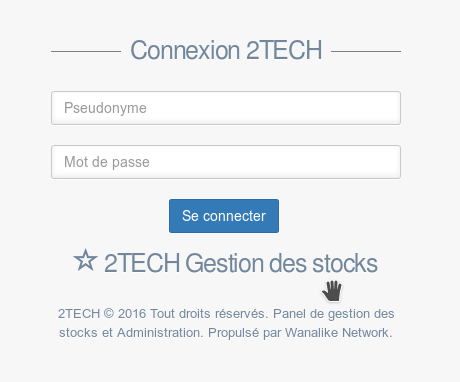
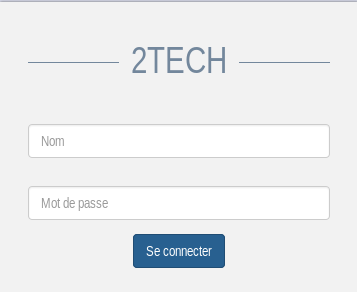
add img files for techologie section

diff --git a/index.html b/index.html
@@ -62,7 +62,7 @@
 <!--slide 1-->
 	<div class="section" id="section2">
 		<div class="slide" id="slide1">
-	 	 	<h2 class="border">le préstataires initiale</h2>
+	 	 	<h2 class="border">le préstataire initiale</h2>
 	 	 	<h3 class="border">Wanalike Network </h3>
 			 	<div class="content">
 	 				<img src="img/wanalike.png"  class="add"/>
@@ -73,7 +73,7 @@
 <!--slide 2-->		
 		<div class="slide" id="slide2">
 			<div class="content">
-			<h2 class="border">le préstataires actuel</h2>
+			<h2 class="border">le préstataire actuel</h2>
 				 <h3 class="border">La Code Academie</h3>
 				 		<div class="content">
 						 	  	 	<img src="img/codeac.jpg" class="add"/>
@@ -93,7 +93,8 @@
 			<div class="content">
 				 <h3 class="border">Un nouveau design</h3>
 		 	 		<h4 class="border modif">avant / aprés</h4>	
-	 			 		<img src="img/oldnew.png" class="center modifs"/>
+		 	 			<a href="img/oldnew.png" class="voir">Plein écran</a>
+	 			 		<img src="img/oldnew.png" class="content-z modifs" />
 						 	 
 			</div>
 		</div>
@@ -110,80 +111,91 @@
 		<div class="slide" id="slide6">
 			<div class="content">
 				 <h2 class="border">Les accés</h2>
-				 <h4 class="border modif">l'utilisateur/administrateur</h4>	
-						<div class="place">
-							<img src="" class="center"/>
+				 <h4 class="border modif">Utilisateur/Administrateur</h4>	
+						
+							<img src="img/login.png" class="center place"/>
 
-						</div>
+						
 			</div>
 		</div>
 	</div>
-	<!--section 3-->
+
+
+<!--section 3-->
 	<div class="section" id="section3">
 			<div class="content">
-				 <h2 class="border">Deux autres pages annexes accessibles via la barre de navigation </h2>
-						<div class="nav">
-							<div class="navbar"></div>
+				 <h2 class="border">l'equipe </h2>
+				 <h4 class="border ">développeur front-end / back-end </h4>	
+						<div class="equipe">
+							<img src="img/tyjow.JPG" class="jo"/>
+							<img src="img/ju.JPG" class=" ju"/>
 
 						</div>
 			</div>
 	</div>
-	<!--section 4-->		
-	<div class="section" id="section4">
-		<div class="content">
-			
-		<h2 class="border">Deux pages conçue pour afficher une vue d'ensemble avec des statistiques</h3> 	 
-
-				<div class="stat">
-						<div class="stats"></div>		
-				</div>
-		</div>
-	</div>
-	<!--section 5-->
-	<div class="section" id="section5">
+	
+<!--section 4-->
+<!--debut du derniers slide-->
+<div class="section" id="section4">
 			<div class="slide" id="slide1">
-			 <div class="content">
-				 	 
-				<h3 class="border">La modal d'ajout d'utilisateurs/fournisseurs</h3> 	 
+			 	<div class="content">
+					<h3 class="border">l'aspect téchnique</h3> 	 
+					<h4 class="border ">les téchnologies </h4>	
+						<img src="img/techno.jpg" >
+				</div>
+			</div><!--end slide 1-->
 
-				<div class="modal">
-						<div class="modals"></div>		
-				</div>
-				 	 
-				 	
-				</div>
-		</div>
 <!--slide 2-->		
 	<div class="slide" id="slide2">
 			<div class="content">
-				 	<h3 class="border">fulltabs</h3> 	 
-
-				<div class="fulltab">
-						<div class="fulltabs"></div>		
+			 	<h3 class="border">Angular Js</h3> 	 
+					<img src="img/Angular.png" />
+					
 			</div>
-		</div>
 
-	</div>
-
-	<!--slide 3-->		
+	</div><!--end slide 2-->
+<!--slide 3-->		
 	<div class="slide" id="slide3">
 			<div class="content">
-				 	<h3>planning</h3> 	 
+			 	<h3 class="border">Bootstrap v3.3.6</h3> 	 
+					<img src="img/bootstrap.jpg"/>
+			</div>
+	</div><!--end slide 3-->
 
-				<div class="plannings">
-						<!--<a href="../planning.html"><div class="planning" ></div></a>-->
-						<img src="img/Planning.png" width="900" height="400"></iframe>
-				</div>
-		</div>
+<!--slide 4-->
+	<div class="slide" id="slide4">
+						<div class="content">
+			 	<h3 class="border">Apache / Mysql</h3> 	 
+					<div class="equipe">
+						<img src="img/apache.png"/>
+						<img src="img/sql.png" class="sql" />
 
-	</div>
+						</div>
+			</div>
+	</div><!--end slide 4-->
+
+	<!--slide 5-->
+	<div class="slide" id="slide5">
+			<div class="content">
+			 	<h3 class="border">Php 7</h3> 	 
+				<img src="img/php.png" class="php">
+			</div>
+	</div><!--end slide 5-->
+
+<!--slide 6-->
+	<div class="slide" id="slide5">
+			<div class="content">
+			 	<h3 class="border">Planning</h3> 	 
+					<a href="img/Planning.png" class="voir">Plein écran</a>
+					<img src="img/Planning.png" class="content-z plannings"/>
+			</div>
+	</div><!--end slide 5-->
 
 
-
-
-	</div>
+</div><!--end section 4-->
+</div><!--end fullpage div -->
 	
-</div>
+
 
 
 

diff --git a/css/prez.css b/css/prez.css
@@ -2,11 +2,19 @@
 		 * --------------------------------------- */
 		body,div,dl,dt,dd,ul,ol,li,h1,h2,h3,h4,h5,h6,pre,
 		form,fieldset,input,textarea,p,blockquote,th,td {
-		    padding: 0 auto;
-		    margin: 0 auto;
+		    padding: 0 ;
+		    margin: 0 ;
 		}
 		a{
 			text-decoration:none;
+		}
+
+		a:hover{
+			background-color:whitesmoke;
+			color:red;
+
+
+
 		}
 		table {
 		    border-spacing: 0;
@@ -94,6 +102,15 @@
 			text-align: center;
 		}
 
+		.content-z{
+			margin-top: 2%;
+			margin-bottom: 0;
+			position: relative;
+			transform: translate(25%, -35%)!important;
+			text-align: center;
+			z-index: -1;
+		}
+
 		/* Section 1
 		 * --------------------------------------- */
 		#section0{
@@ -176,7 +193,7 @@ div.p{
 	border :2px solid red;
 	color: red;
 	background-color: whitesmoke;
-	/*margin-bottom: 5%;*/
+	margin-top: 5%;
 	width: 30%;
 
 }
@@ -199,6 +216,7 @@ div.p{
 h1.titre{
 	display:flex;
 	justify-content: center;
+	transform: translateX(10%)!important;
 	background-color: whitesmoke;
 
 
@@ -243,10 +261,10 @@ h2{
 	justify-content: center;
 	background-color: rgba(255,255,255, 0.7)!important;
 	background-repeat: no-repeat;
-	margin-left: 40%;
-	margin-top: 5%;
-	height:	px!important;
-	width: 300px!important;
+	margin-left: 41%;
+	
+	height:	250px!important;
+	width: 250px!important;
 	
 }
 
@@ -254,30 +272,33 @@ h2{
 
 
 
-.nav{
-
+.equipe{
+	float:left;
 	display: flex!important;
 	justify-content: center!important;
+	height:250px;
+	width: 50%;
+	margin-left: 25%;
+	background-color: white;
+}
+
+.ju{
+	float:left;
+}
+
+.sql{
+	background-color:white!important;
+
 
 }
 
-.navbar{
-	
-	background:url('../img/navbar.png');
-	background-repeat: no-repeat;
-	margin-top: 5%;
-	margin-bottom: 5%;
-	margin-left: 10%;
-	height: 50px;
-	width: 750px;
 
-}
 
 .modif{
 	display: block;
 	justify-content: center!important;
 	width: 25%;
-	margin-left: 20%;
+	/*margin-left: 20%;*/
 	
 	font-size: 50px;
 	
@@ -293,10 +314,10 @@ h2{
 	/*background:url('../img/oldnew.png');*/	
 	background-repeat: no-repeat;
 	background-size: cover;
-	transform: translate(-12%, -25%);
+	transform: translate(15%, -50%)!important;
 	padding: 0 ;
 	
-	height: 800px;
+	height: 650px;
 	width: 1024px;
 
 }
@@ -431,32 +452,42 @@ h2{
 
 }
 
+
+
 .plannings{
+	
 	display: flex;
 	justify-content: center;
-
-
-
-}
-
-.planning{
-	
 	background:url('../img/wallpaper.jpg');
 	background-repeat: no-repeat;
 	background-size: cover;
 	font-size: 150px;
-	
-	/*margin-left: 42%;*/
-	height: 350px;
-	width: 450px;
+	/*margin-left: 35%;*/
+	height: 450px;
+	width: 850px;
 
 }
 
 .place{
-	display: flex;
-	justify-content: center;
+	display: flex!important;
+	justify-content: center!important;
+	/*background:url('../img/oldnew.png');*/	
+	background-repeat: no-repeat;
+	background-size: cover;
+	transform: translate(15%, 5%);
+	padding: 0 ;
+	
+	height: 350px;
+	width: 600px;
 
 
+
+
+}
+
+.php{
+
+	background-color: white;
 
 }
 
@@ -484,6 +515,22 @@ h2{
 	font-size: 40px;
 	width: 60%;
 	
+
+}
+
+.voir{
+	display:flex;
+	justify-content: center;
+	margin-left: 38.5%;
+	transform: translate(25%, 45%)!important;
+	background-color: red;
+	color: whitesmoke;
+	font-size: 50px;
+	width: 15%;
+	height: 10%;
+
+
+
 
 }
 
